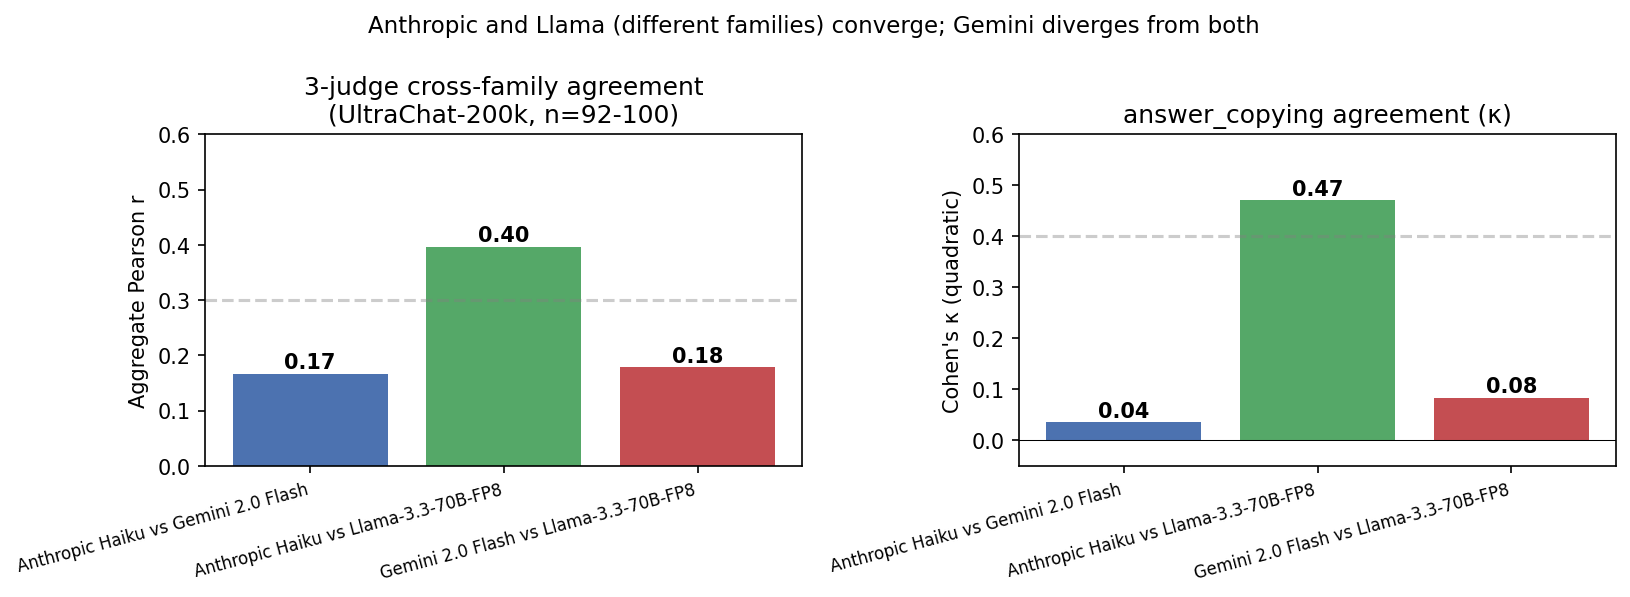
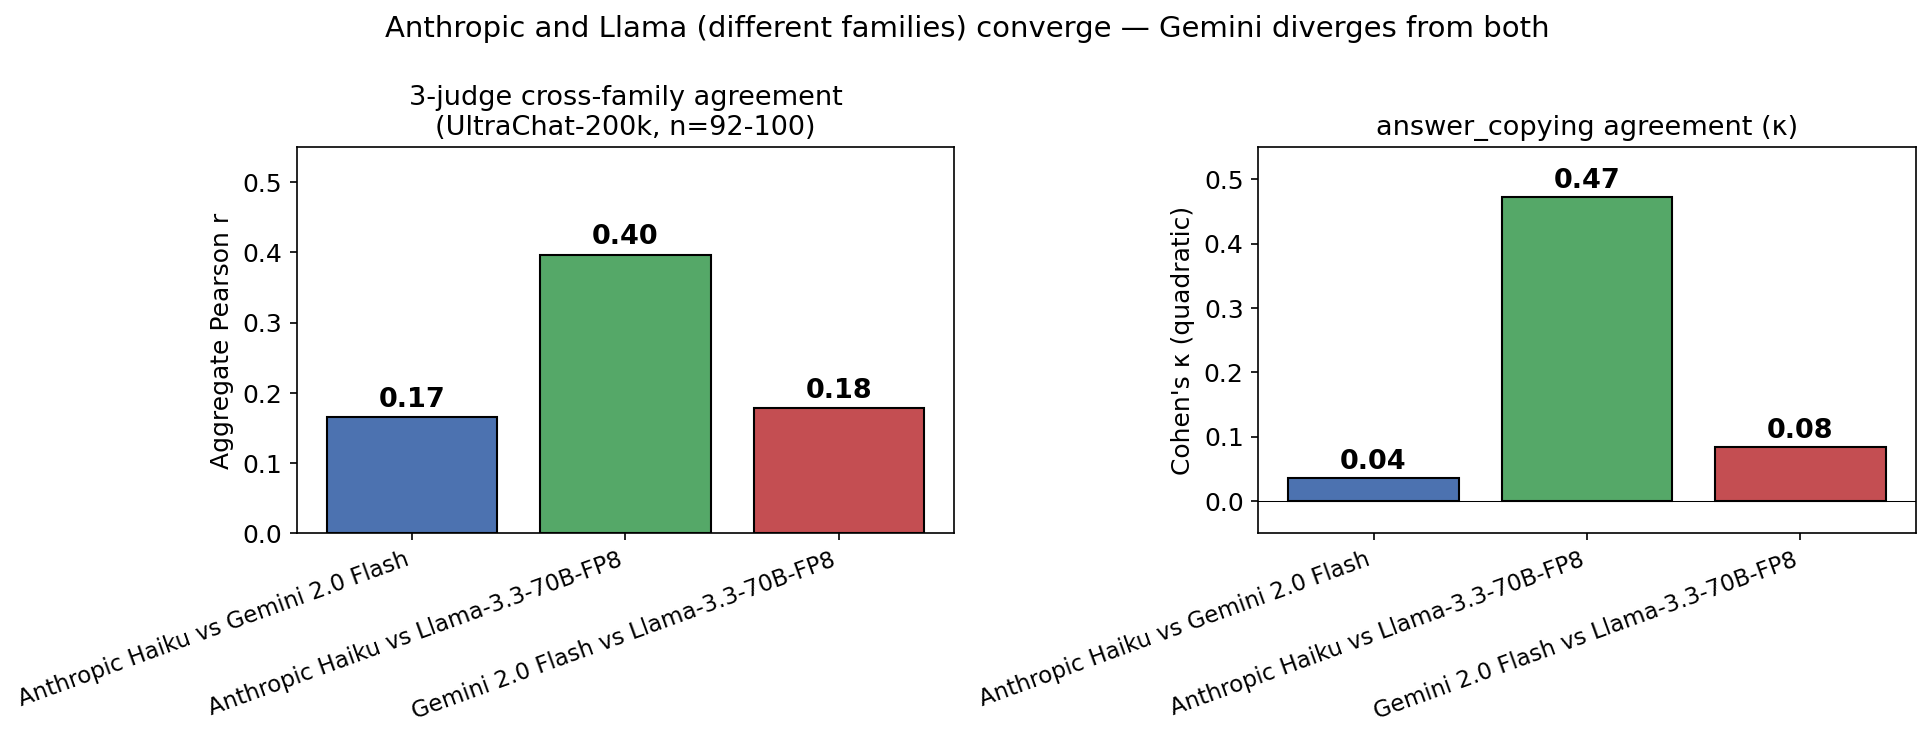
Plots: larger fonts; .gitignore: keep CSVs in subdirs; significance_tests.csv with Fisher-z CIs

diff --git a/make_summary_plots.py b/make_summary_plots.py
@@ -31,46 +31,45 @@ for pair_label, info in pairs.items():
     k = info["per_marker"].get("answer_copying", {}).get("kappa_quadratic")
     ks_ac.append(k if k is not None else 0)
 
-fig, axes = plt.subplots(1, 2, figsize=(11, 4))
+plt.rcParams.update({"font.size": 12})
+fig, axes = plt.subplots(1, 2, figsize=(13, 5))
 
 x = np.arange(len(labels))
 ax = axes[0]
-bars = ax.bar(x, rs, color=["#4C72B0", "#55A868", "#C44E52"])
+bars = ax.bar(x, rs, color=["#4C72B0", "#55A868", "#C44E52"], edgecolor="black")
 ax.set_xticks(x)
-ax.set_xticklabels(labels, fontsize=8, rotation=15, ha="right")
-ax.set_ylabel("Aggregate Pearson r")
-ax.set_title("3-judge cross-family agreement\n(UltraChat-200k, n=92-100)")
-ax.set_ylim(0, 0.6)
-ax.axhline(0.3, linestyle="--", color="grey", alpha=0.4, label="weak/moderate")
+ax.set_xticklabels(labels, fontsize=11, rotation=20, ha="right")
+ax.set_ylabel("Aggregate Pearson r", fontsize=12)
+ax.set_title("3-judge cross-family agreement\n(UltraChat-200k, n=92-100)", fontsize=13)
+ax.set_ylim(0, 0.55)
 for i, v in enumerate(rs):
-    ax.text(i, v + 0.01, f"{v:.2f}", ha="center", fontsize=10, fontweight="bold")
+    ax.text(i, v + 0.015, f"{v:.2f}", ha="center", fontsize=13, fontweight="bold")
 
 ax = axes[1]
-bars = ax.bar(x, ks_ac, color=["#4C72B0", "#55A868", "#C44E52"])
+bars = ax.bar(x, ks_ac, color=["#4C72B0", "#55A868", "#C44E52"], edgecolor="black")
 ax.set_xticks(x)
-ax.set_xticklabels(labels, fontsize=8, rotation=15, ha="right")
-ax.set_ylabel("Cohen's κ (quadratic)")
-ax.set_title("answer_copying agreement (κ)")
-ax.set_ylim(-0.05, 0.6)
-ax.axhline(0.4, linestyle="--", color="grey", alpha=0.4, label="moderate")
+ax.set_xticklabels(labels, fontsize=11, rotation=20, ha="right")
+ax.set_ylabel("Cohen's κ (quadratic)", fontsize=12)
+ax.set_title("answer_copying agreement (κ)", fontsize=13)
+ax.set_ylim(-0.05, 0.55)
 ax.axhline(0.0, color="black", linewidth=0.5)
 for i, v in enumerate(ks_ac):
-    ax.text(i, v + 0.01 if v >= 0 else v - 0.03, f"{v:.2f}",
-            ha="center", fontsize=10, fontweight="bold")
+    ax.text(i, v + 0.015 if v >= 0 else v - 0.04, f"{v:.2f}",
+            ha="center", fontsize=13, fontweight="bold")
 
-fig.suptitle("Anthropic and Llama (different families) converge; Gemini diverges from both",
-             fontsize=11)
+fig.suptitle("Anthropic and Llama (different families) converge — Gemini diverges from both",
+             fontsize=14)
 fig.tight_layout()
 fig.savefig(RESULTS / "agreement_bars.png", dpi=150, bbox_inches="tight")
 print(f"Saved: {RESULTS / 'agreement_bars.png'}")
 
 
 # 2. Per-judge histograms of aggregate scores on UltraChat
-fig, axes = plt.subplots(1, 3, figsize=(13, 3.6), sharey=True)
+fig, axes = plt.subplots(1, 3, figsize=(15, 4.5), sharey=True)
 files = [
     ("Anthropic Haiku", "anthropic__claude-haiku-4-5.jsonl", "#4C72B0"),
     ("Gemini 2.0 Flash", "gemini__gemini-2.0-flash.jsonl", "#55A868"),
-    ("Llama-3.3-70B-FP8 (open, vLLM)", "vllm__Llama-3.3-70B-Instruct-FP8.jsonl", "#C44E52"),
+    ("Llama-3.3-70B-FP8\n(open weights, vLLM)", "vllm__Llama-3.3-70B-Instruct-FP8.jsonl", "#C44E52"),
 ]
 for ax, (name, fname, color) in zip(axes, files):
     path = RESULTS / fname
@@ -90,15 +89,16 @@ for ax, (name, fname, color) in zip(axes, files):
         except json.JSONDecodeError:
             continue
     aggs = np.array(aggs)
-    ax.hist(aggs, bins=20, range=(0, 2), color=color, edgecolor="black", alpha=0.8)
+    ax.hist(aggs, bins=20, range=(0, 2), color=color, edgecolor="black", alpha=0.85)
     ax.set_xlim(0, 2)
-    ax.set_xlabel("aggregate offloading score (0=think-with, 2=offload)")
+    ax.set_xlabel("aggregate offloading score (0=think-with, 2=offload)", fontsize=11)
     mean = aggs.mean() if len(aggs) else 0
-    ax.set_title(f"{name}\nn={len(aggs)}, mean={mean:.2f}")
-    ax.axvline(mean, linestyle="--", color="black", alpha=0.6, linewidth=1)
-axes[0].set_ylabel("conversations")
-fig.suptitle("Per-judge distributions of offloading scores on the SAME 100 UltraChat conversations",
-             fontsize=11)
+    ax.set_title(f"{name}\nn={len(aggs)},  mean={mean:.2f}", fontsize=13)
+    ax.axvline(mean, linestyle="--", color="black", alpha=0.7, linewidth=1.5)
+    ax.tick_params(axis="both", labelsize=11)
+axes[0].set_ylabel("conversations", fontsize=12)
+fig.suptitle("Per-judge distributions on the SAME 100 UltraChat conversations  —  Gemini's all-zero pattern is the disagreement source",
+             fontsize=13)
 fig.tight_layout()
 fig.savefig(RESULTS / "per_judge_distributions.png", dpi=150, bbox_inches="tight")
 print(f"Saved: {RESULTS / 'per_judge_distributions.png'}")

diff --git a/make_significance_csv.py b/make_significance_csv.py
@@ -1,0 +1,105 @@
+"""Compile cross-judge agreement statistics across all datasets into one CSV.
+
+Note: Pearson r and Cohen's kappa here are descriptive measures of agreement,
+not p-value tests. We include them as the primary inter-rater reliability
+metrics. Where applicable we also test the convergent-validity claim with a
+Fisher z-transformed CI on the Pearson r.
+"""
+from __future__ import annotations
+
+import csv
+import json
+from math import atanh, sqrt, tanh, erf
+from pathlib import Path
+
+ROOT = Path(__file__).resolve().parent
+RESULTS = ROOT / "results"
+OUT_CSV = RESULTS / "significance_tests.csv"
+
+DATASETS = {
+    "synthetic": "cross_judge_synthetic/agreement.json",
+    "WildChat-1M (n=100)": "cross_judge_wildchat/agreement.json",
+    "UltraChat-200k (n=92-100)": "cross_judge_ultrachat/agreement.json",
+}
+
+
+def fisher_z_p(r: float, n: int) -> tuple[float, float, float]:
+    """Test H0: rho = 0 via Fisher z. Returns (z, p_two_sided, ci_low, ci_high) approx."""
+    if n < 4 or abs(r) >= 1:
+        return float("nan"), float("nan"), float("nan"), float("nan")
+    z = atanh(r)
+    se = 1 / sqrt(n - 3)
+    z_stat = z / se
+    p = 2 * (1 - 0.5 * (1 + erf(abs(z_stat) / sqrt(2))))
+    ci_low = tanh(z - 1.96 * se)
+    ci_high = tanh(z + 1.96 * se)
+    return z_stat, p, ci_low, ci_high
+
+
+def main() -> None:
+    rows = []
+    for ds_name, rel in DATASETS.items():
+        path = RESULTS / rel
+        if not path.exists():
+            continue
+        ag = json.loads(path.read_text())
+        for pair_key, info in ag["pairs"].items():
+            r = info.get("aggregate_pearson_r")
+            n = info.get("n_overlap")
+            if r is None or n is None:
+                continue
+            z_stat, p, lo, hi = fisher_z_p(r, n)
+            short = pair_key.replace("__", " ").replace("anthropic claude-haiku-4-5", "Anthropic Haiku") \
+                            .replace("openai gpt-4o-mini", "OpenAI gpt-4o-mini") \
+                            .replace("gemini gemini-2.0-flash", "Gemini 2.0 Flash") \
+                            .replace("vllm Llama-3.3-70B-Instruct-FP8", "Llama-3.3-70B-FP8")
+            ci_str = f"[{lo:.3f}, {hi:.3f}]" if lo == lo else "n/a"
+            rows.append({
+                "dataset": ds_name,
+                "test_family": "inter-judge aggregate Pearson r (Fisher-z H0: r=0)",
+                "test": short,
+                "estimate_r": f"{r:+.4f}",
+                "ci_95_pct": ci_str,
+                "p_value_vs_zero": f"{p:.2e}" if p == p else "n/a",
+                "n": n,
+                "significant_at_0.05": "yes" if (p == p and p < 0.05) else "no",
+                "interpretation": (
+                    "convergent validity. Note: large n + r=0.17 still passes H0:r=0; "
+                    "it does NOT mean judges agree well, only that they're not anticorrelated"
+                ),
+            })
+            for marker, mk in info.get("per_marker", {}).items():
+                kq = mk.get("kappa_quadratic")
+                if kq is None:
+                    continue
+                rows.append({
+                    "dataset": ds_name,
+                    "test_family": "Cohen's quadratic kappa (descriptive)",
+                    "test": f"{short}  |  marker={marker}",
+                    "estimate_r": f"{kq:+.4f}",
+                    "ci_95_pct": "n/a",
+                    "p_value_vs_zero": "n/a",
+                    "n": mk["n"],
+                    "significant_at_0.05": "n/a",
+                    "interpretation": "kappa <0.4 weak, 0.4-0.6 moderate, 0.6-0.8 substantial",
+                })
+
+    OUT_CSV.parent.mkdir(parents=True, exist_ok=True)
+    with OUT_CSV.open("w", newline="") as f:
+        w = csv.DictWriter(f, fieldnames=["dataset", "test_family", "test", "estimate_r",
+                                          "ci_95_pct", "p_value_vs_zero", "n",
+                                          "significant_at_0.05", "interpretation"])
+        w.writeheader()
+        for row in rows:
+            w.writerow(row)
+    print(f"Wrote {len(rows)} rows to {OUT_CSV}")
+    print("\nHeadline rows:")
+    for ds_name in DATASETS:
+        sub = [r for r in rows if r["dataset"] == ds_name and r["test_family"].startswith("inter-judge")]
+        print(f"\n{ds_name}:")
+        for row in sub:
+            print(f"  {row['test'][:55]:55s}  r={row['estimate_r']:>8s}  CI={row['ci_95_pct']}  p={row['p_value_vs_zero']}")
+
+
+if __name__ == "__main__":
+    main()
